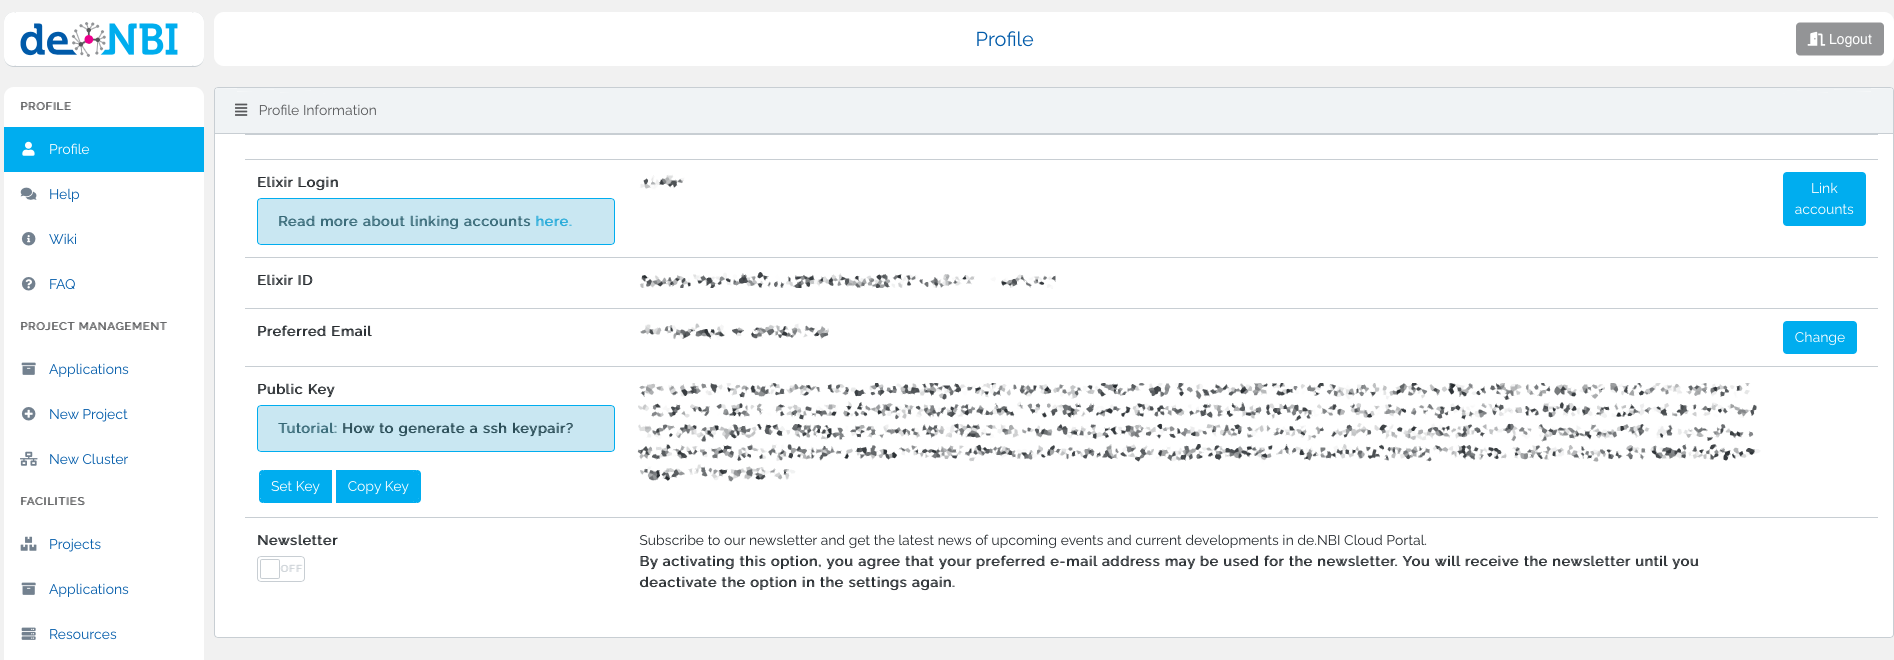
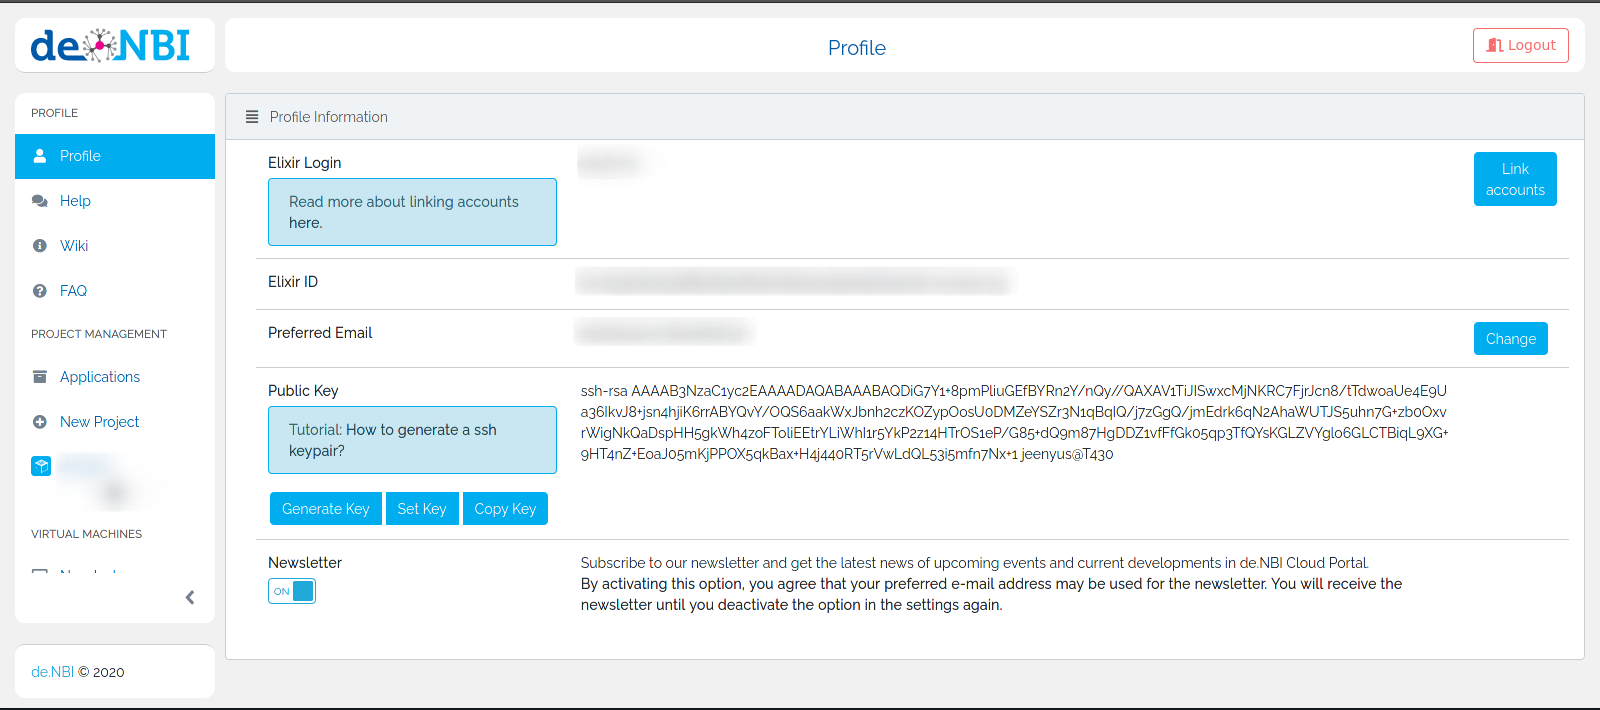
feat(ssh): info to automatically generate ssh key

diff --git a/wiki/portal/user_information.md b/wiki/portal/user_information.md
@@ -13,7 +13,15 @@ On this page you will as well find your public SSH-Key (if it is already stored)
 
 ![setcopypublickey](img/profile_page.png)
 
-You have the possibility to view, copy and deposit your public ssh key. This is necessary for starting machines. If you don't know how to generate a ssh key, you will find a link to the [instructions](../quickstart.md#generate-ssh-keys) on the page.
+You have the possibility to view, copy and deposit your public ssh key. This is necessary for starting machines. 
+If you don't know how to generate a ssh key, you will find a link to the [instructions](../quickstart.md#generate-ssh-keys) on the page.
+
+Alternatively you are also able to have a ECDSA key generated for you. Click on the `Generate Key` button and read and confirm the notification.  
+![setcopypublickey](img/generate_key_notification.png)  
+The public key part will be automatically set for you and you are able to download the private key file once.  
+![setcopypublickey](img/generate_key_download.png)  
+If you do not download it or save it otherwise it will be lost and you will have to generate a new key pair.
+Please note that you will have to change the permissions of the key file as written in the notification you just confirmed.
 
 ### Link Accounts to ELIXIR
 

diff --git a/wiki/quickstart.md b/wiki/quickstart.md
@@ -64,6 +64,9 @@ If you do not have an SSH key or you are not sure whether you have one, please g
 Afterwards, your key should be listed on the key overview page. In chapter [ Getting Access to the Instance](quickstart.md#getting-access-to-the-instance) we will use this key. 
 
 ## Generate SSH-Keys
+You have two options to generate your SSH Key:
+1. Manually. Follow the instructions for either Linux or Windows.  
+2. Automatically. Please see our information on the [profile page](portal/user_information.md#ssh-key).  
 
 Note that on your "User information" page only RSA and ECDSA public keys are accepted as valid.
 The following instructions are for RSA keys.
